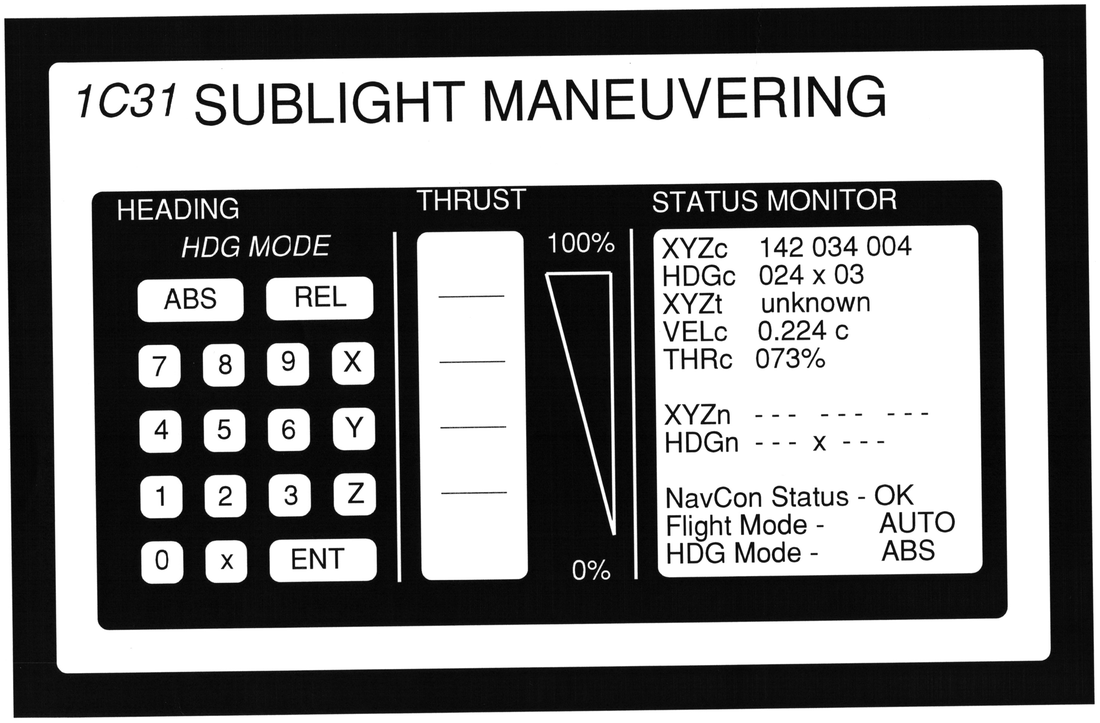
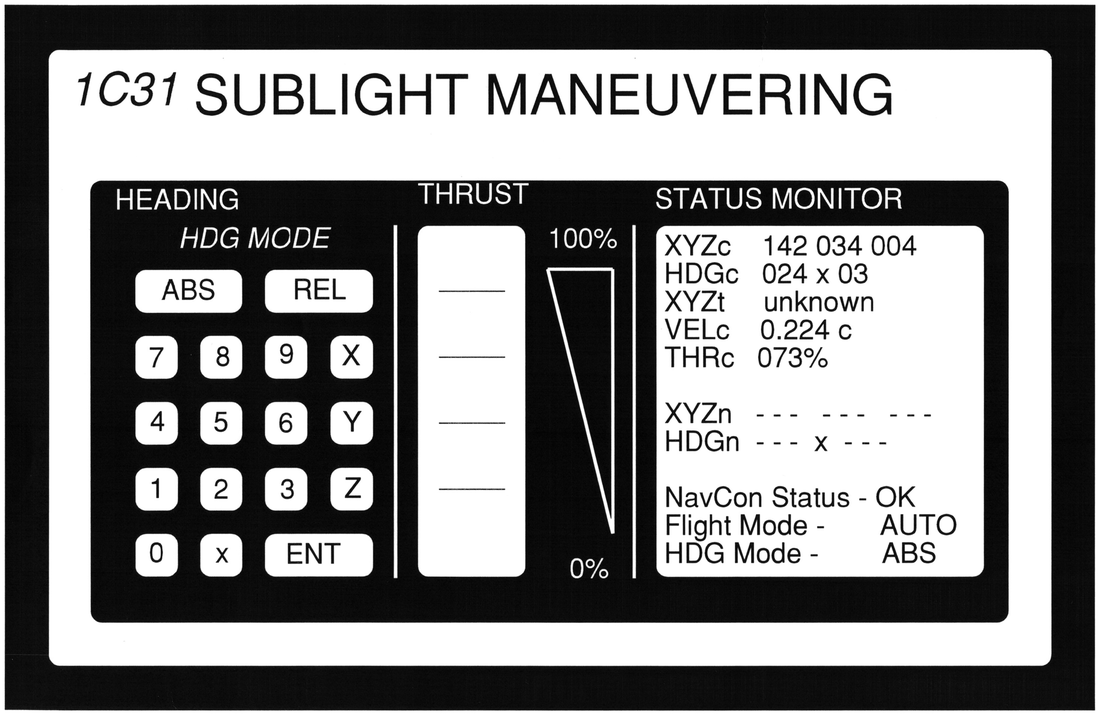
Tidied up the prop scans and related page

diff --git a/web/wwwroot/css/app.css b/web/wwwroot/css/app.css
@@ -192,6 +192,24 @@ div.sidebar-bang-rotated {
     width: 30%;
 }
 
+/* Half the width of .figure-left-small, for tall narrow pictures */
+.figure-left-xsmall
+{
+    float: left;
+    padding: 1.25rem;
+    padding-bottom: 0.25rem;
+    margin-top: 1.25rem;
+    margin-bottom: 1.25rem;
+    border: 1px solid #490e0e;
+    border-radius: 0.1rem;
+    background-color: #bebebe;
+    border-width: 0.1rem;
+    margin-left: 3rem;
+    margin-right: 3rem;
+    font-family:'Courier New', Courier, monospace;
+    width: 15%;
+}
+
 .column-left
 {
     float:left;

diff --git a/.claude/skills/transcribe-pdf-resource/scripts/deskew_image.py b/.claude/skills/transcribe-pdf-resource/scripts/deskew_image.py
@@ -1,0 +1,96 @@
+#!/usr/bin/env python3
+"""Straighten a scanned picture that was scanned at a slight angle, using its frame.
+
+Usage:
+  python3 deskew_image.py <in.png> [<out.png>] [--crop] [--margin N] [--max-angle D] [--width W]
+
+Finds the outline of the largest dark shape in the image (a panel's border, a printed frame),
+measures how far it's tilted, and rotates the whole image back by that much, filling the new
+corners with white. With --crop it then trims to that frame plus --margin pixels (default 8),
+which also removes the scan's slanted edges. --width W scales the result down to W pixels wide
+(never up). Angles over --max-angle degrees (default 5) are treated as "not a skew" and the image
+is left alone, so a deliberately rotated picture isn't "corrected".
+
+Prints the angle found and what was done. Needs OpenCV (cv2), numpy and Pillow.
+"""
+import argparse, sys
+import cv2
+import numpy as np
+from PIL import Image
+
+
+def frame_angle(gray):
+    """Tilt in degrees of the largest dark shape, and its contour."""
+    _, bw = cv2.threshold(gray, 0, 255, cv2.THRESH_BINARY_INV + cv2.THRESH_OTSU)
+    bw = cv2.morphologyEx(bw, cv2.MORPH_CLOSE, np.ones((5, 5), np.uint8))
+    contours, _ = cv2.findContours(bw, cv2.RETR_EXTERNAL, cv2.CHAIN_APPROX_SIMPLE)
+    if not contours:
+        return 0.0, None
+    big = max(contours, key=cv2.contourArea)
+    (_, _), (w, h), ang = cv2.minAreaRect(big)
+    # OpenCV reports the angle of a rectangle edge in [0, 90); bring it to the nearest axis
+    while ang > 45:
+        ang -= 90
+    while ang < -45:
+        ang += 90
+    return float(ang), big
+
+
+def main():
+    ap = argparse.ArgumentParser(description=__doc__, formatter_class=argparse.RawDescriptionHelpFormatter)
+    ap.add_argument("src"); ap.add_argument("dst", nargs="?")
+    ap.add_argument("--crop", action="store_true"); ap.add_argument("--margin", type=int, default=8)
+    ap.add_argument("--max-angle", type=float, default=5.0); ap.add_argument("--width", type=int)
+    a = ap.parse_args()
+    dst = a.dst or a.src
+
+    im = Image.open(a.src)
+    mode = "L" if im.mode in ("L", "1", "P", "LA") else "RGB"
+    im = im.convert(mode)
+    arr = np.array(im)
+    gray = arr if mode == "L" else cv2.cvtColor(arr, cv2.COLOR_RGB2GRAY)
+
+    ang, _ = frame_angle(gray)
+    note = []
+    if abs(ang) > a.max_angle:
+        note.append(f"angle {ang:.2f} deg is over --max-angle, not rotated")
+    elif abs(ang) >= 0.05:
+        h, w = gray.shape
+        M = cv2.getRotationMatrix2D((w / 2, h / 2), ang, 1.0)
+        cos, sin = abs(M[0, 0]), abs(M[0, 1])
+        nw, nh = int(h * sin + w * cos), int(h * cos + w * sin)
+        M[0, 2] += nw / 2 - w / 2
+        M[1, 2] += nh / 2 - h / 2
+        fill = 255 if mode == "L" else (255, 255, 255)
+        arr = cv2.warpAffine(arr, M, (nw, nh), flags=cv2.INTER_CUBIC, borderValue=fill)
+        gray = arr if mode == "L" else cv2.cvtColor(arr, cv2.COLOR_RGB2GRAY)
+        note.append(f"rotated {ang:+.2f} deg")
+    else:
+        note.append(f"already straight ({ang:+.2f} deg)")
+
+    if a.crop:
+        _, big = frame_angle(gray)
+        if big is not None:
+            # union of every shape at least 5% the size of the largest, so a page with
+            # two side-by-side panels keeps both
+            _, bw = cv2.threshold(gray, 0, 255, cv2.THRESH_BINARY_INV + cv2.THRESH_OTSU)
+            bw = cv2.morphologyEx(bw, cv2.MORPH_CLOSE, np.ones((5, 5), np.uint8))
+            cs, _ = cv2.findContours(bw, cv2.RETR_EXTERNAL, cv2.CHAIN_APPROX_SIMPLE)
+            keep = [c for c in cs if cv2.contourArea(c) >= 0.05 * cv2.contourArea(big)]
+            x, y, w, h = cv2.boundingRect(np.vstack(keep))
+            m = a.margin
+            x0, y0 = max(x - m, 0), max(y - m, 0)
+            x1, y1 = min(x + w + m, gray.shape[1]), min(y + h + m, gray.shape[0])
+            arr = arr[y0:y1, x0:x1]
+            note.append(f"cropped to frame {x1 - x0}x{y1 - y0}")
+
+    out = Image.fromarray(arr)
+    if a.width and out.width > a.width:
+        out = out.resize((a.width, round(out.height * a.width / out.width)), Image.LANCZOS)
+        note.append(f"scaled to {out.width}x{out.height}")
+    out.save(dst, optimize=True)
+    print(f"{dst}: " + ", ".join(note))
+
+
+if __name__ == "__main__":
+    main()

diff --git a/web/wwwroot/content/out-of-character/prop-designs/prop-designs.md b/web/wwwroot/content/out-of-character/prop-designs/prop-designs.md
@@ -4,6 +4,10 @@ The control panel and equipment designs used for props, each with its in-game de
 
 #### Command Authorisation Panel
 
+::: figure-left-small
+![1C01 Authorisation panel - palmprint scanner, access lights, control panel enable/disable and code lock keypad](/content/out-of-character/prop-designs/prop-designs_1c01-authorisation.png "1C01 AUTHORISATION")
+:::
+
 This panel controls access to the command override panels
 by use of both palmprint recognition and personal ident
 codes.
@@ -31,13 +35,18 @@ LEARN tab, then the new user goes through the normal verification sequence.
 The unit is disabled by tabbing the upper right hand corner of the panel border a second
 time, or if the unit is unattended for 5 minutes.
 
-![1C01 Authorisation panel - palmprint scanner, access lights, control panel enable/disable and code lock keypad](/content/out-of-character/prop-designs/prop-designs_1c01-authorisation.png "1C01 AUTHORISATION")
+::: page-break
+:::
 
 ---
 
 ### 1C02 MISSION STATUS
 
 #### Command Mission Status Control Panel
+
+::: figure-left-small
+![1C02 Mission Status panel - status levels from Stand Down to Red Alert, siren controls and mission timer keypad](/content/out-of-character/prop-designs/prop-designs_1c02-mission-status.png "1C02 MISSION STATUS")
+:::
 
 This panel controls the Mission Status displays (1D01) and
 the Mission Timers (1D02). It is used to signal status
@@ -80,13 +89,18 @@ unique siren may be canceled by tabbing the CAN key when it is sounding, or soun
 manually by tabbing the SND key. The voice messages accompanying the countdown is
 Warning mode is enabled may not be canceled.
 
-![1C02 Mission Status panel - status levels from Stand Down to Red Alert, siren controls and mission timer keypad](/content/out-of-character/prop-designs/prop-designs_1c02-mission-status.png "1C02 MISSION STATUS")
+::: page-break
+:::
 
 ---
 
 ### 1C03 INTERIOR SCREENS
 
 #### Command Interior Screen Control Panel
+
+::: figure-left-small
+![1C03 Interior Screens panel - status, siren, screen level keypad and IR status monitor graph](/content/out-of-character/prop-designs/prop-designs_1c03-interior-screens.png "1C03 INTERIOR SCREENS")
+:::
 
 This panel alows the control and adjustment of the interior IR
 screens fitted to most ships and operational buildings.
@@ -118,37 +132,62 @@ which correspond to the screening level required. These digits are right entered
 Screen LEvel field on the display, and come into effect when all four digits have been
 entered.
 
-![1C03 Interior Screens panel - status, siren, screen level keypad and IR status monitor graph](/content/out-of-character/prop-designs/prop-designs_1c03-interior-screens.png "1C03 INTERIOR SCREENS")
+::: page-break
+:::
 
 ---
 
 ### 1C04 PERIMETER DEFENSE
 
+::: figure-left-small
 ![1C04 Perimeter Defense panel - status, siren and perimeter monitor](/content/out-of-character/prop-designs/prop-designs_1c04-perimeter-defense.png "1C04 PERIMETER DEFENSE")
+:::
+
+::: page-break
+:::
 
 ---
 
 ### 1C31 SUBLIGHT MANEUVERING
 
+::: figure-left-small
 ![1C31 Sublight Maneuvering panel - heading keypad, thrust gauge and status monitor](/content/out-of-character/prop-designs/prop-designs_1c31-sublight-maneuvering.png "1C31 SUBLIGHT MANEUVERING")
+:::
+
+::: page-break
+:::
 
 ---
 
 ### 1C33 SUPRALIGHT NAVIGATION
 
+::: figure-left-small
 ![1C33 Supralight Navigation panel](/content/out-of-character/prop-designs/prop-designs_1c33-supralight-navigation.png "1C33 SUPRALIGHT NAVIGATION")
+:::
+
+::: page-break
+:::
 
 ---
 
 ### 1C35 THRUSTER CONTROL
 
+::: figure-left-small
 ![1C35 Thruster Control panel - pitch/roll/yaw display and lateral and transverse thruster keys](/content/out-of-character/prop-designs/prop-designs_1c35-thruster-control.png "1C35 THRUSTER CONTROL")
+:::
+
+::: page-break
+:::
 
 ---
 
 ### 7C37 E.B.U.
 
 #### Emergency Beacon Unit
+
+::: figure-left-xsmall
+![7C37 E.B.U. front panel - status display (BCN, EMRG, SND, TX FAIL) and BCN, EMRG, ENA, SND keys](/content/out-of-character/prop-designs/prop-designs_7c37-ebu.png "7C37 E.B.U.")
+:::
 
 This unit provides a standard distress message generator
 and planetary range transmitter in a single compact
@@ -177,13 +216,19 @@ transmitter/generator using the SND key.
 If the unit is to be slaved to an additional transmitter, connection is made using the CON25
 connector, leaving the RF connector unconnected.
 
-![7C37 E.B.U. - front panel and front panel mask](/content/out-of-character/prop-designs/prop-designs_7c37-ebu.png "7C37 E.B.U.")
+::: page-break
+:::
 
 ---
 
 ### 4M01 RVC-877
 
 #### Medical Diagnostic & Repair Package
+
+::: figure-left-small
+![4M01 RVC-877 Medical Diagnosis Unit (MediCare Research Labs, Dawn, Model MRL-877-02) - power, probe, yellow/green/red/blue keys and keypad](/content/out-of-character/prop-designs/prop-designs_4m01-rvc-877.png "4M01 RVC-877")  
+![4M01 RVC-877 with probe storage](/content/out-of-character/prop-designs/prop-designs_4m01-rvc-877-probe-storage.png "4M01 RVC-877 - Probe Storage")
+:::
 
 The RVC-877 Unit is now widely used by the military for the treatment of incapacitating
 radiation (IR). The unit was designed and built at MediCare research labs on Dawn and
@@ -222,15 +267,18 @@ resuscitant is shown by the digit indicated. If this model does not have such a 
 then count from the top left corner (with the yellow control pointing up) to get an answer. An
 answer in excess of nine should have nine subtracted from it.
 
-![4M01 RVC-877 Medical Diagnosis Unit (MediCare Research Labs, Dawn, Model MRL-877-02) - power, probe, yellow/green/red/blue keys and keypad](/content/out-of-character/prop-designs/prop-designs_4m01-rvc-877.png "4M01 RVC-877")
-
-![4M01 RVC-877 with probe storage](/content/out-of-character/prop-designs/prop-designs_4m01-rvc-877-probe-storage.png "4M01 RVC-877 - Probe Storage")
+::: page-break
+:::
 
 ---
 
 ### 4M74P MEDI-AID
 
 #### Medical Sequence Storage Package
+
+::: figure-left-small
+![4M74P MediAid - log step display, FWD/RES/BAK and R/B/Y/G keys, power cells](/content/out-of-character/prop-designs/prop-designs_4m74p-medi-aid.png "4M74P MEDIAID")
+:::
 
 The 4M74P unit (commonly known as the Medi-Aid) is a coprocessing board for use with
 the RVC-877 (4M01). It was designed by Landon Industries on contract to MediCare in
@@ -260,13 +308,18 @@ success rate of 92% with only a 11% increase in total operation time. While the 
 time is slightly slower the improvement in success rate far out-weighs the time factor and
 makes the unit extremely valuable to a field medical unit.
 
-![4M74P MediAid - log step display, FWD/RES/BAK and R/B/Y/G keys, power cells](/content/out-of-character/prop-designs/prop-designs_4m74p-medi-aid.png "4M74P MEDIAID")
+::: page-break
+:::
 
 ---
 
 ### 1C01 IR DOSIMETER
 
 #### Personal I.R Dosimeter
+
+::: figure-left-xsmall
+![7M01 IR Dosimeter - display, LEV/TIM/CUM/DOS pads and instructions](/content/out-of-character/prop-designs/prop-designs_7m01-ir-dosimeter.png "7M01 IR DOSIMETER")
+:::
 
 The 7M01 Personal I.R. Dosimeter is a small, belt-mounted
 unit that measures and displays both the current ambient
@@ -287,28 +340,44 @@ Ambient IR Level (LEV), Equivalent IR Dosage Level (DOS), Cumulative IR Doseage
 Additionally, an audible warning sounds when the ambient IR level increases above a pre-
 set value, indicating the presence of a 'hot-spot'.
 
-![7M01 IR Dosimeter - display, LEV/TIM/CUM/DOS pads and instructions](/content/out-of-character/prop-designs/prop-designs_7m01-ir-dosimeter.png "7M01 IR DOSIMETER")
-
 _Printed on the unit:_
 
 > 1: Power switch on RHS of Unit  
 > 2: Select display of LEVel, TIMe to lethal dose, CUMulative dose or current DOSage level.  
 > 3: Ensure unit is checked and calibrated by Medical staff every 28 days.
 
+::: page-break
+:::
+
 ---
 
 ### 5E01 ENV MON
 
+::: figure-left-xsmall
 ![5E01 Env Mon - display with CAL, LNK, CMP, SCAN and STO keys](/content/out-of-character/prop-designs/prop-designs_5e01-env-mon.png "5E01 ENV MON")
+:::
+
+::: page-break
+:::
 
 ---
 
 ### 1S01 HOLDING CELL
 
+::: figure-left-small
 ![1S01 Holding Cell - two security screen panels with code lock keypads](/content/out-of-character/prop-designs/prop-designs_1s01-holding-cell.png "1S01 HOLDING CELL")
+:::
+
+::: page-break
+:::
 
 ---
 
 ### 1W04 RSS CONTROL
 
+::: figure-left-small
 ![1W04 RSS Control - arming, manual pan/lock and status display](/content/out-of-character/prop-designs/prop-designs_1w04-rss-control.png "1W04 RSS CONTROL")
+:::
+
+::: page-break
+:::

diff --git a/.claude/skills/transcribe-pdf-resource/SKILL.md b/.claude/skills/transcribe-pdf-resource/SKILL.md
@@ -112,11 +112,18 @@ clip-art dingbats) and say in the report that you skipped them.
    render. It saves greyscale unless you pass `--colour` (use that only when the original is in colour).
    If the PDF isn't in `.transcribe/media/`, set `FIVECOY_MEDIA_DIR` to Joel's media mirror
    (`$HOME/mnt/5coy-media` when that folder is connected).
-3. **Look at the PNG** (stage it and open it with Read) and adjust the box until nothing is cut off and
+3. **Straighten it.** Scanned panels, forms and framed drawings are often a degree or so askew. If the
+   picture has a clear rectangular frame or border, run
+   `python3 $S/deskew_image.py <png> --crop [--margin 12] [--width 1100]`: it measures the frame's tilt,
+   rotates the picture square (skipping anything tilted more than 5 degrees, so pictures printed sideways
+   aren't "corrected"), and with `--crop` trims to the frame, which also removes the slanted scan edges.
+   For a whole-page picture, extract the full page first and let `--crop` find the frame. A picture
+   printed upside down or sideways still needs turning by hand (e.g. Pillow `rotate(180)`).
+4. **Look at the PNG** (stage it and open it with Read) and adjust the box until nothing is cut off and
    nothing extra is in it.
-4. Name it `<reference>_<short-kebab-description>.png` (e.g. `briefing-notes_type-23-exosuit_plan.png`,
+5. Name it `<reference>_<short-kebab-description>.png` (e.g. `briefing-notes_type-23-exosuit_plan.png`,
    `thevoice_2493-05_dag-food.png`) and save it in the **same folder as the markdown**.
-5. Reference it where it sits in the layout, with the site-absolute path, alt text describing what it
+6. Reference it where it sits in the layout, with the site-absolute path, alt text describing what it
    shows and a title from the page's own caption or heading:
    ```markdown
    ![A marine in the new CMC A.C.C.D camouflage combat dress](/content/in-character/other-publications/dispatches_2495-unknown_accd.png "CMC A.C.C.D (All Condition Combat Dress)")
